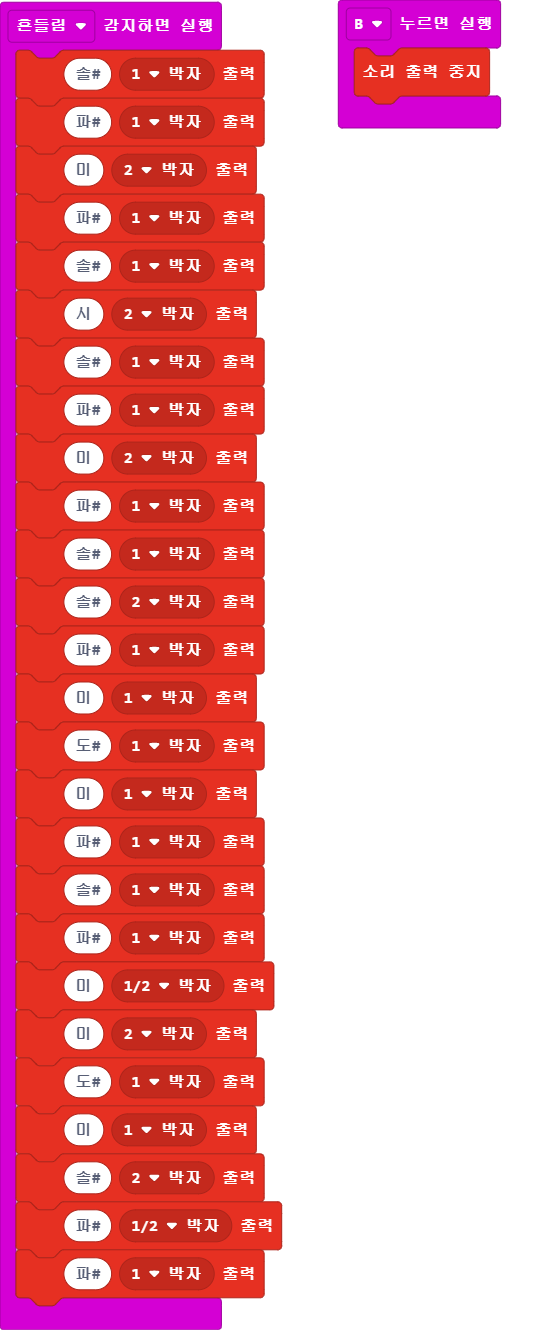
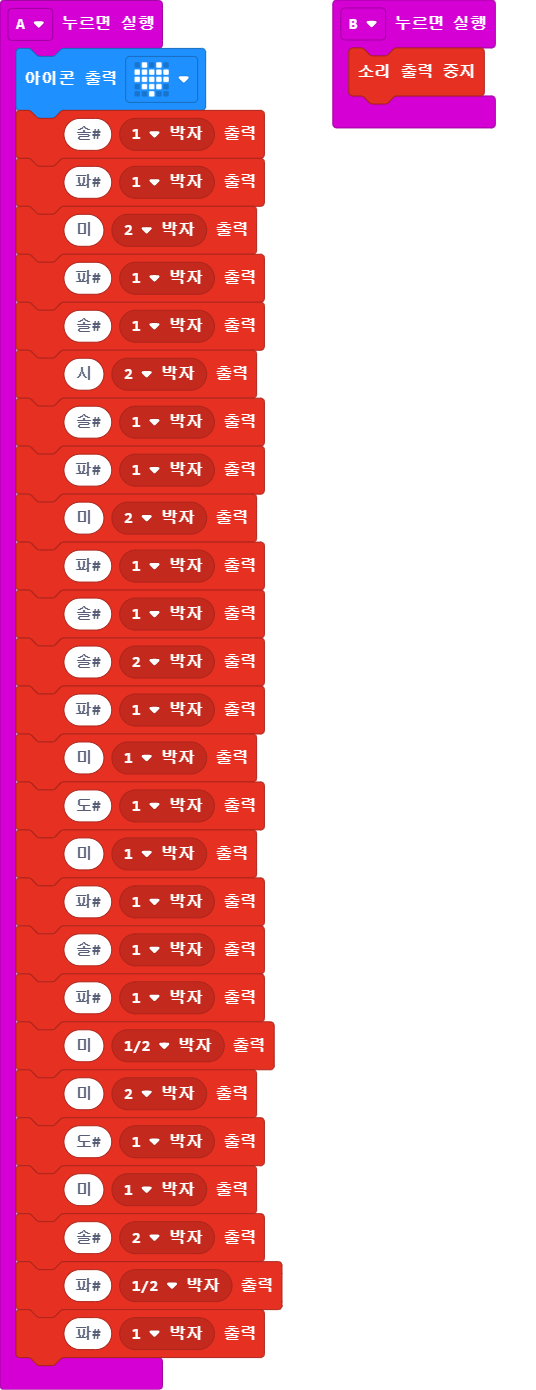
Update main.blocks, main.ts

diff --git a/main.ts b/main.ts
@@ -1,4 +1,5 @@
-input.onGesture(Gesture.Shake, function () {
+input.onButtonPressed(Button.A, function () {
+    basic.showIcon(IconNames.Heart)
     music.playTone(415, music.beat(BeatFraction.Whole))
     music.playTone(370, music.beat(BeatFraction.Whole))
     music.playTone(330, music.beat(BeatFraction.Double))
